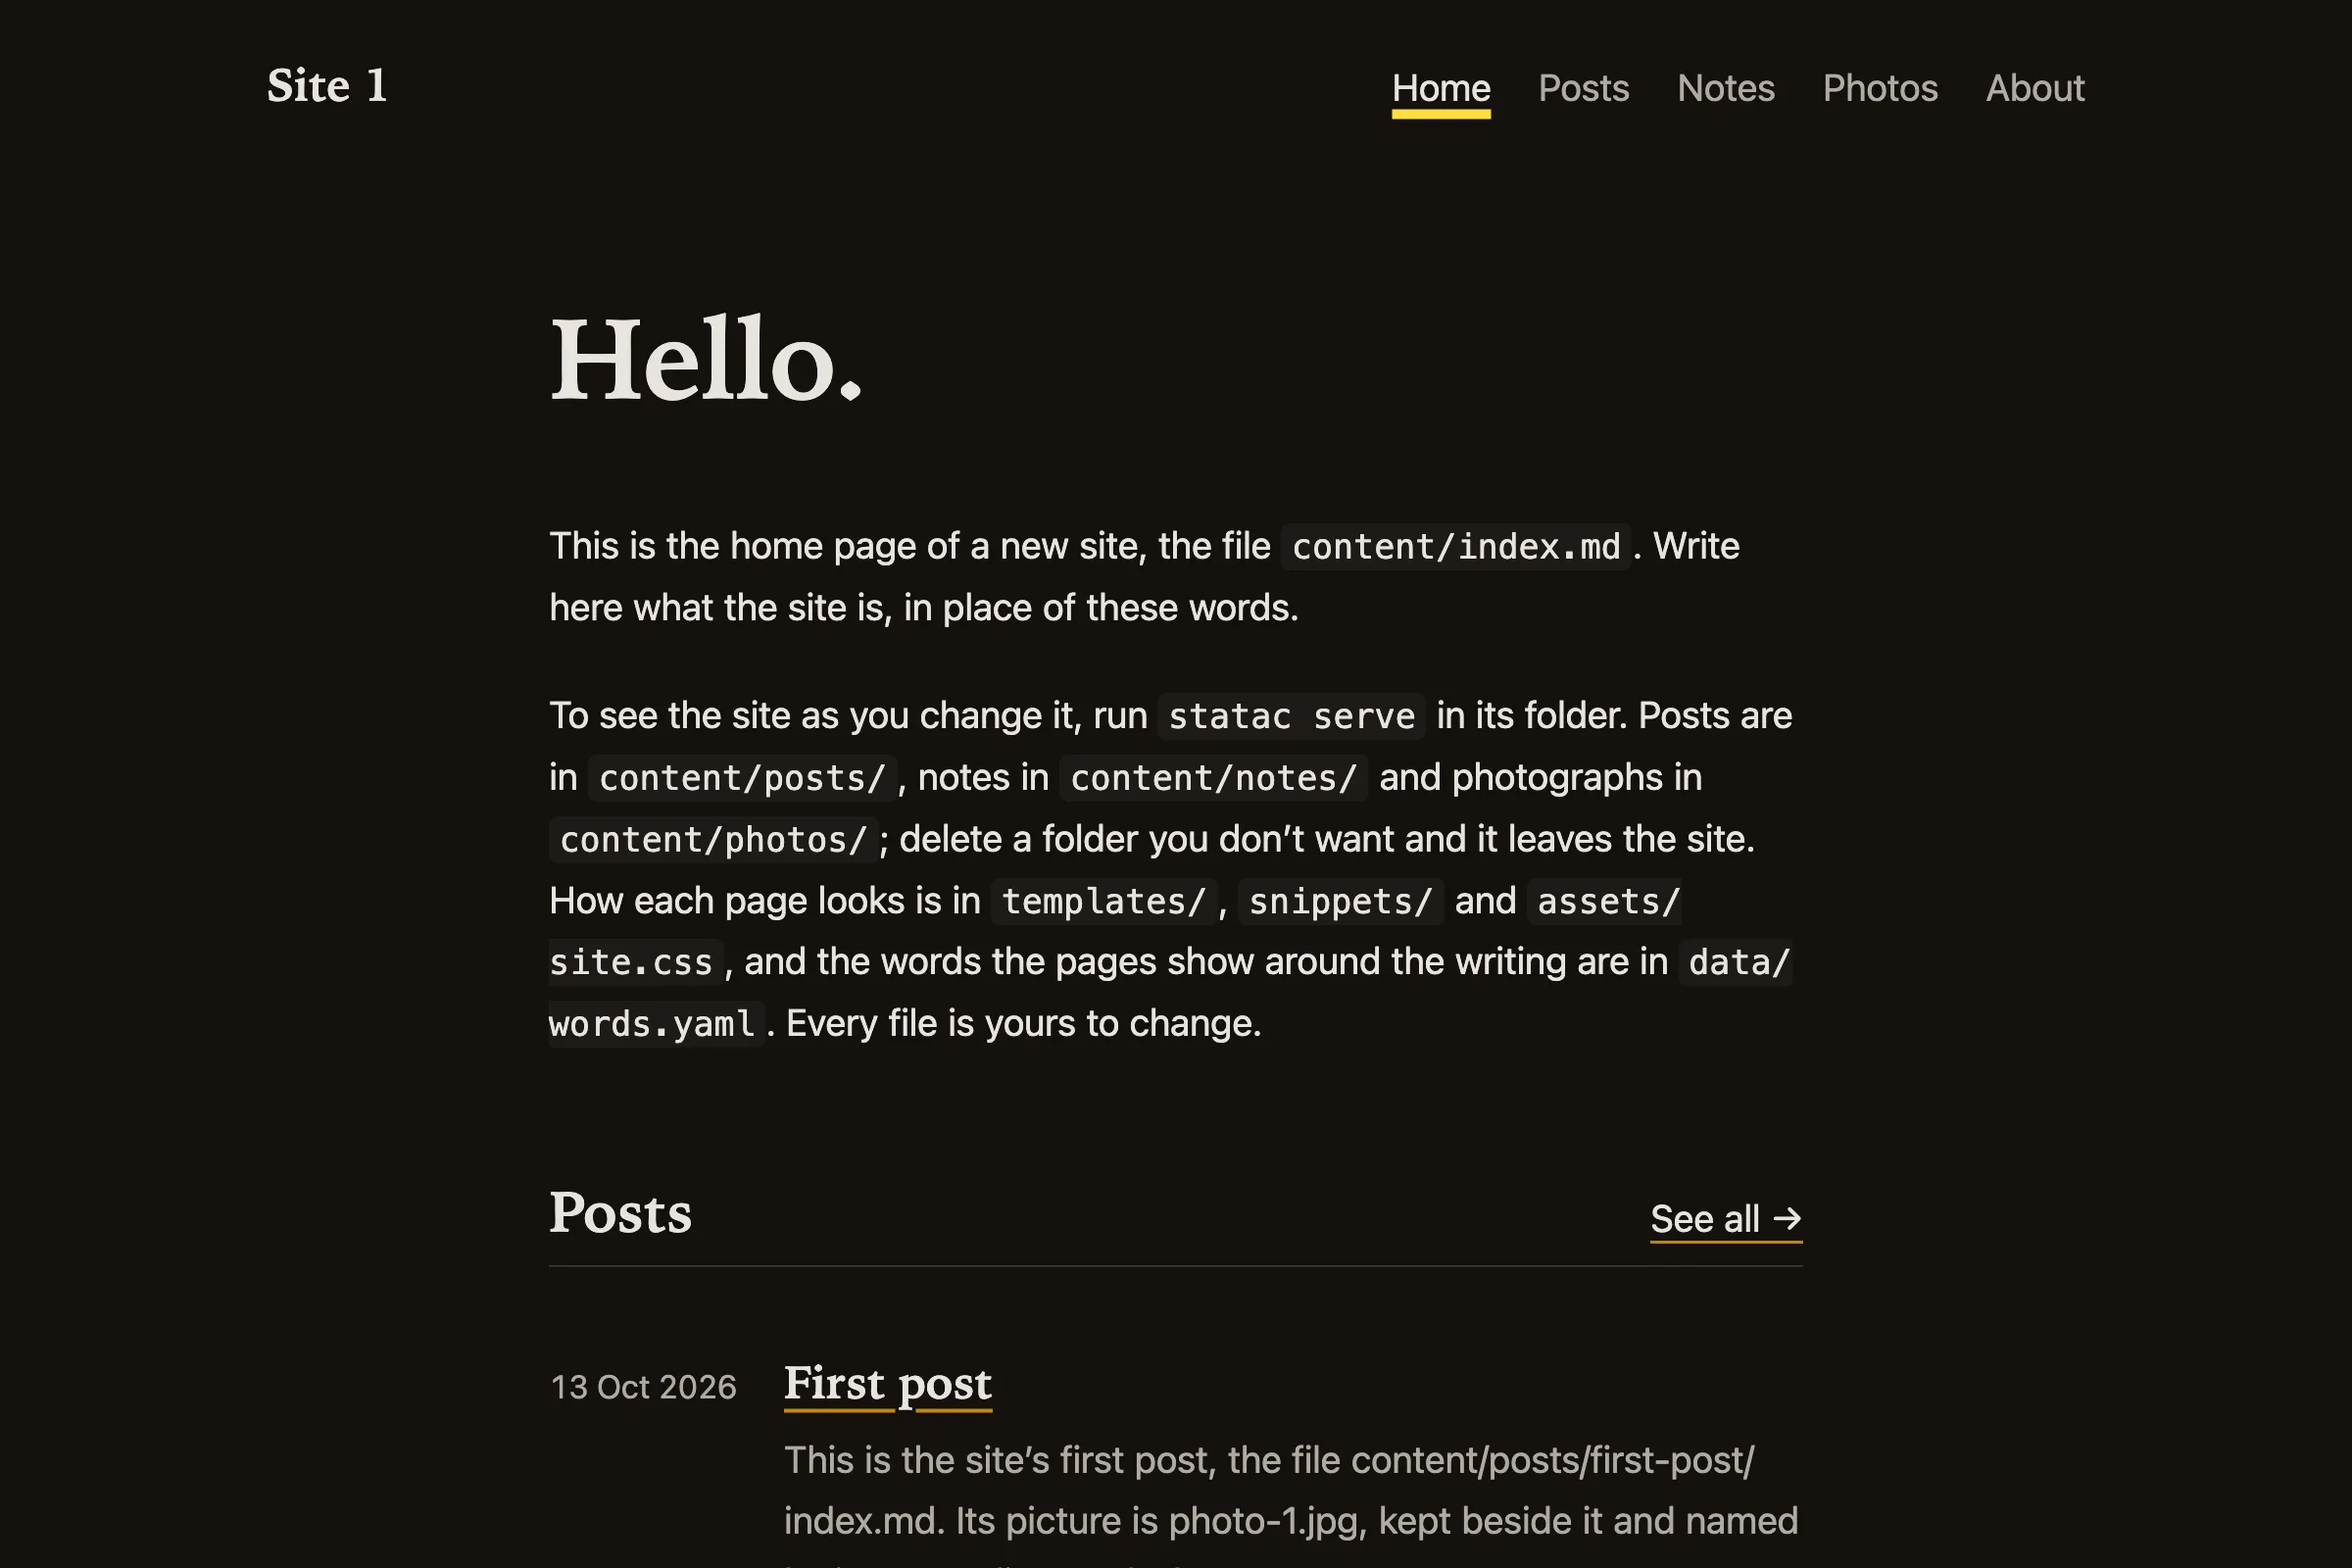
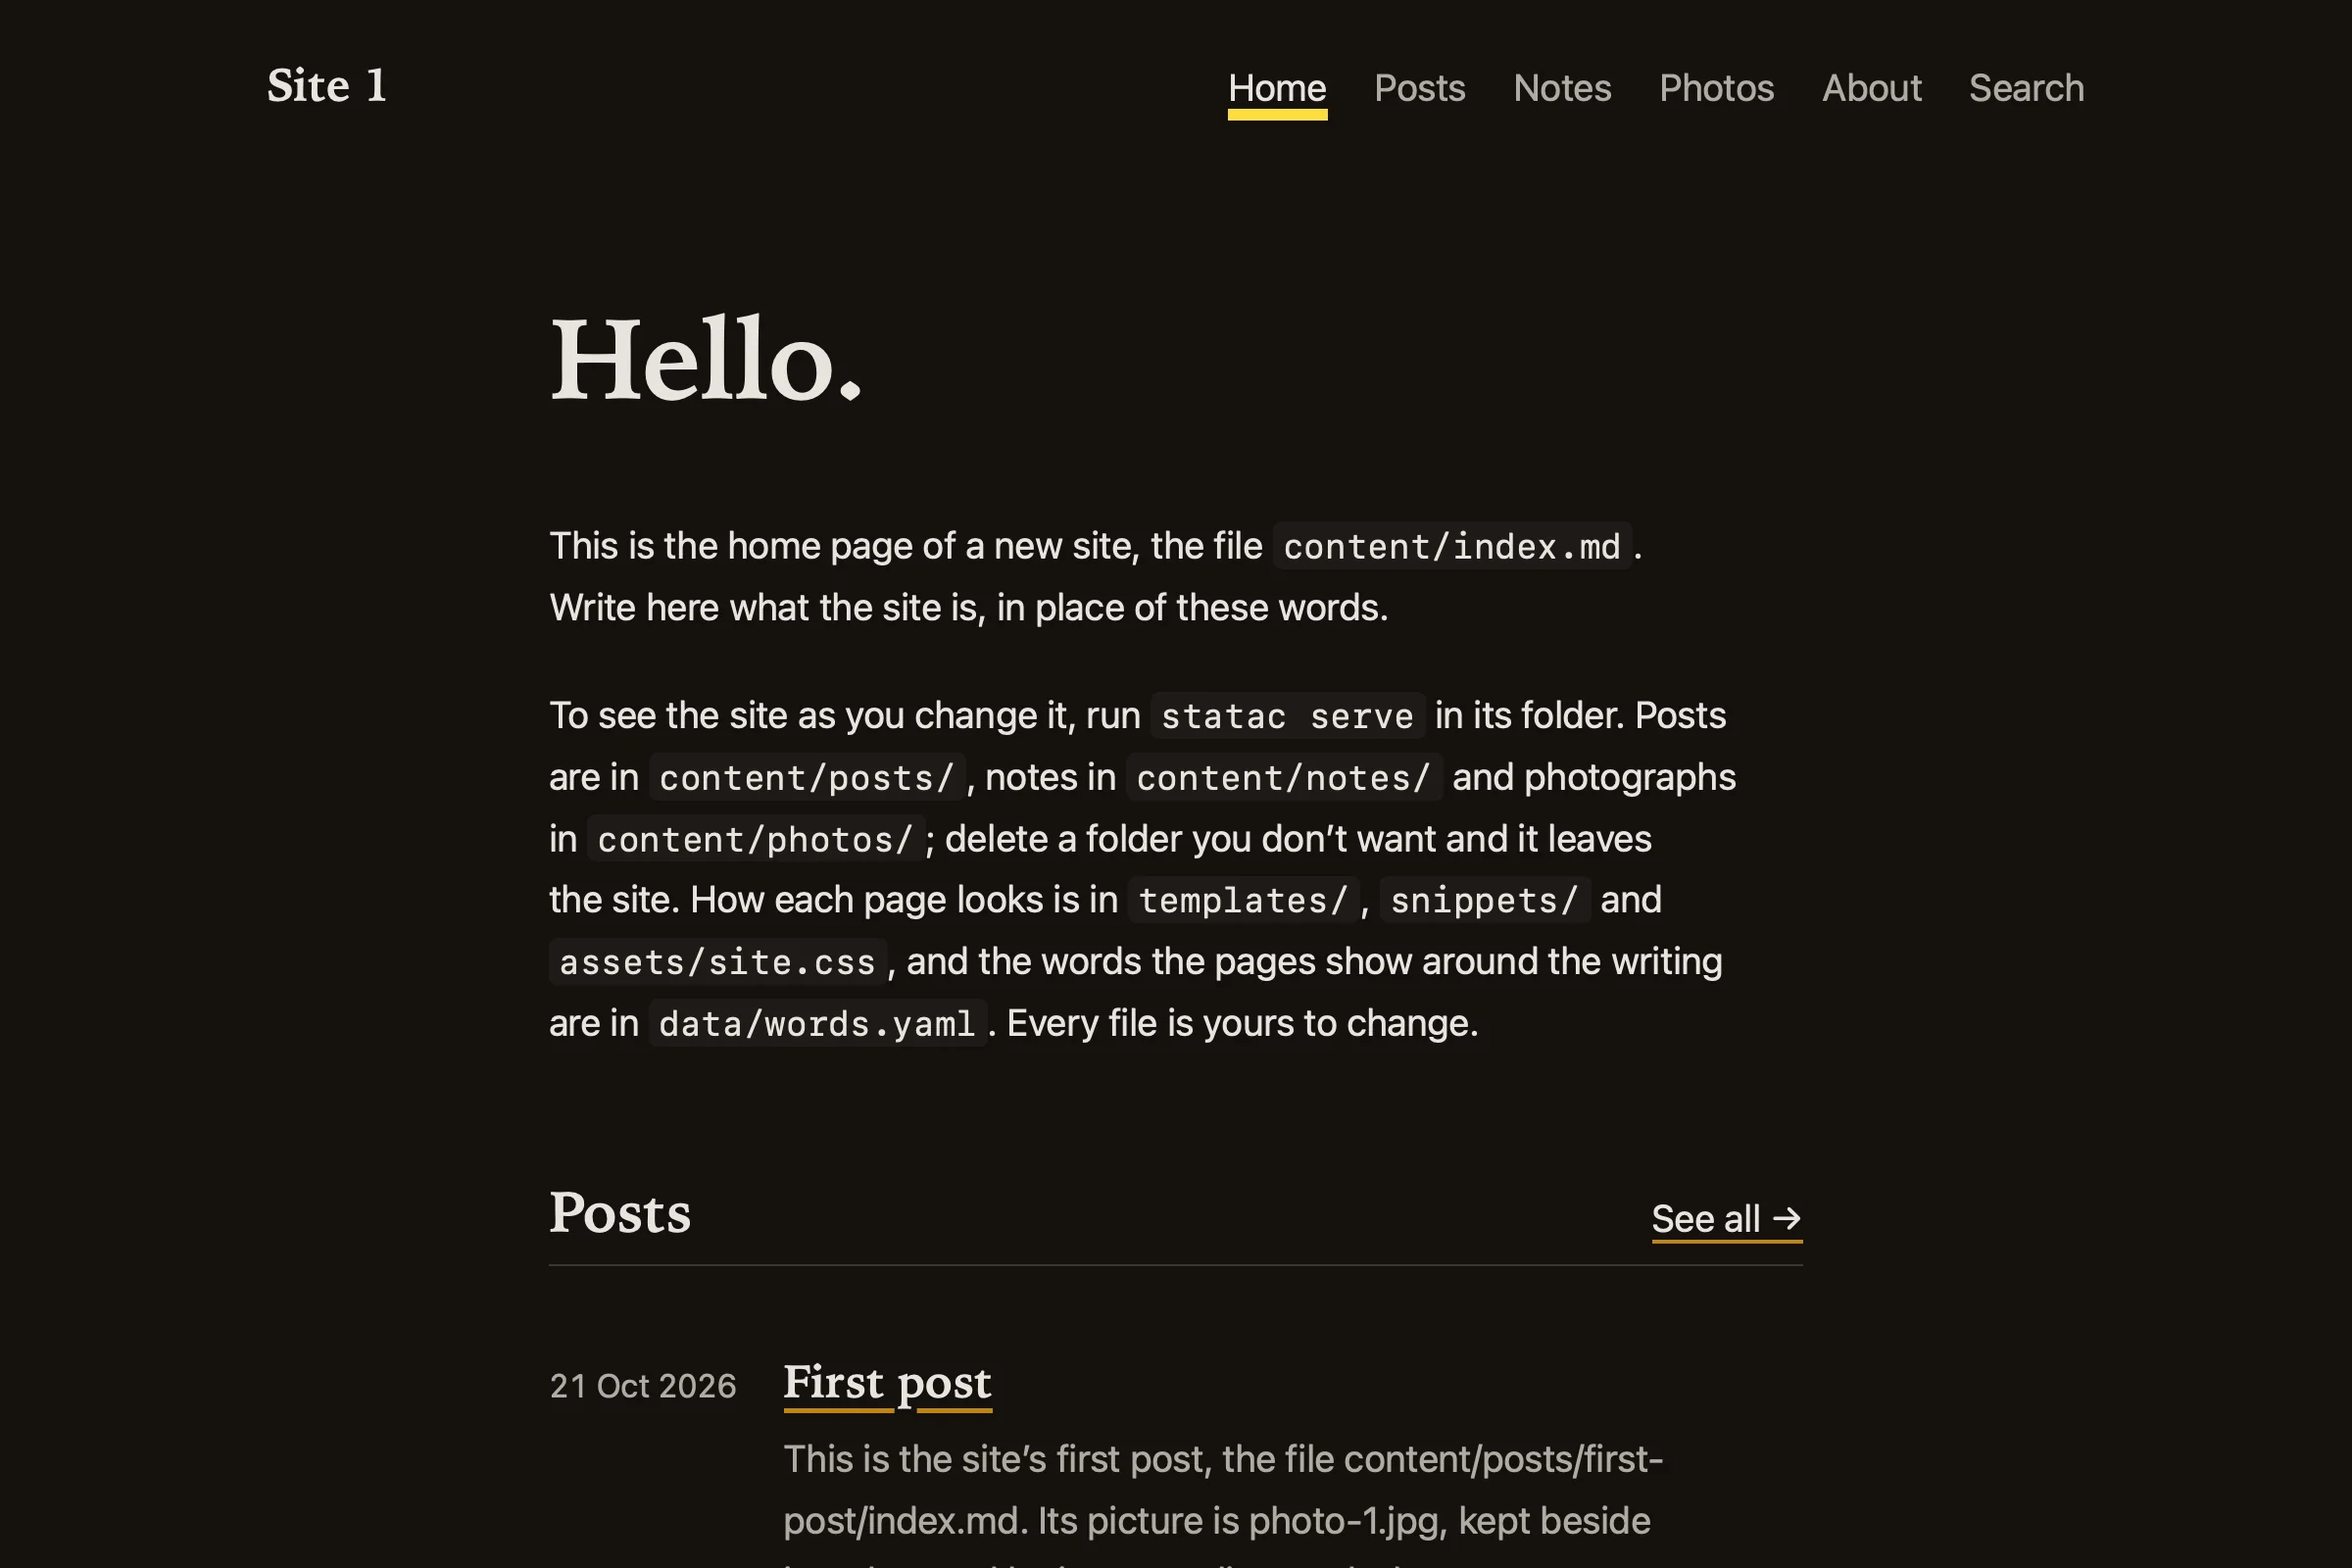
docs(readme): describe search and Scoop, picture the starter with Search, and draw the terminal in neutral greys

diff --git a/README.md b/README.md
@@ -11,16 +11,17 @@
 <p align="center">
   <a href="https://github.com/statac-ssg/statac/releases/latest"><img alt="The latest release" src="https://img.shields.io/github/v/release/statac-ssg/statac?label=release&color=CC4E00"></a>
   <a href="https://github.com/statac-ssg/statac/actions/workflows/release.yml"><img alt="The build of the latest release's packages" src="https://img.shields.io/github/actions/workflow/status/statac-ssg/statac/release.yml?label=release%20packages"></a>
-  <a href="https://statac.dev/install/"><img alt="Runs on macOS, Linux and Windows" src="https://img.shields.io/badge/runs%20on-macOS%20%C2%B7%20Linux%20%C2%B7%20Windows-191918"></a>
-  <a href="#licence"><img alt="Licence: MIT or Apache-2.0" src="https://img.shields.io/badge/licence-MIT%20or%20Apache--2.0-191918"></a>
+  <a href="https://statac.dev/install/"><img alt="Runs on macOS, Linux and Windows" src="https://img.shields.io/badge/runs%20on-macOS%20%C2%B7%20Linux%20%C2%B7%20Windows-191919"></a>
+  <a href="#licence"><img alt="Licence: MIT or Apache-2.0" src="https://img.shields.io/badge/licence-MIT%20or%20Apache--2.0-191919"></a>
 </p>
 
 <p align="center"><b><a href="https://statac.dev/getting-started/">Get started</a> · <a href="https://statac.dev/install/">Install</a> · <a href="https://statac.dev">Documentation</a> · <a href="https://statac.dev/e/">Problems explained</a> · <a href="CHANGELOG.md">Changes</a></b></p>
 
 Statac makes a website from a folder of writing. You write pages in
 Markdown, choose how they look with templates, and run `statac build`. It
-writes a site of plain files, ready to put on any web host, with nothing
-for a reader's browser to run unless you put it there.
+writes a site of plain files, ready to put on any web host. Statac adds
+no JavaScript to a page unless you ask it to: in a new site, only the
+search page has any.
 
 It is one program in one file, with no plugins and nothing else to
 install beside it.
@@ -44,6 +45,11 @@ stopped, and links to a page about that kind of problem.
 - **Photographs handled.** Write an ordinary Markdown
   [picture](https://statac.dev/pictures/). Readers get it in several
   sizes, as AVIF with a JPEG fallback.
+- **Search built in.** A new site has a
+  [search page](https://statac.dev/search/) that finds pages as the
+  reader types, from an index Statac writes at each build, with nothing
+  outside your site needed. `statac search` gives the same results in
+  the terminal.
 - **Sharing cards.** After `statac new --cards`, Statac draws a
   [link preview](https://statac.dev/sharing-cards/) for every page, from
   a layout you set.
@@ -74,7 +80,14 @@ On Linux:
 curl -fsSL https://get.statac.dev | sh
 ```
 
-For Windows, or another way to install, each
+On Windows, with [Scoop](https://scoop.sh):
+
+```powershell
+scoop bucket add statac https://github.com/statac-ssg/scoop-statac
+scoop install statac
+```
+
+For another way to install, each
 [release](https://github.com/statac-ssg/statac/releases) has a package
 for each kind of machine. [Installing](https://statac.dev/install/)
 says which to take and how to check it.
@@ -92,7 +105,7 @@ statac serve
 it again on every save.
 
 <p align="center">
-  <img src=".github/readme/starter.webp" alt="The home page of a new site, headed Hello., with Home, Posts, Notes, Photos and About in its menu and a list of posts beneath" width="860">
+  <img src=".github/readme/starter.webp" alt="The home page of a new site, headed Hello., with Home, Posts, Notes, Photos, About and Search in its menu and a list of posts beneath" width="860">
 </p>
 
 ## Documentation
